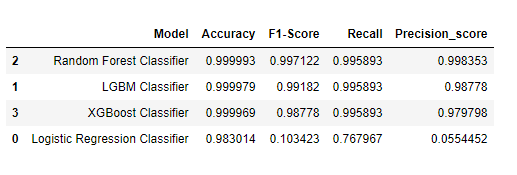
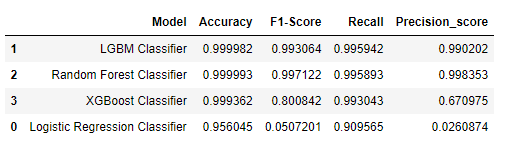
3.1

diff --git a/README.md b/README.md
@@ -136,35 +136,30 @@ These correlations can be useful for the business team to have a quick view of t
 
 ![alt text](img/ml.png "Title")
 
-The Random Forest had the best result. Doing the cross validation, for each model, we obtain:
+The Light GBM had the best result. Doing the cross validation, for each model, we obtain:
 
 ![alt text](img/ml_2.png "Title")
 
-Therefore, the model we will use will be the Random Forest
+Therefore, the model we will use will be the Light GBM
 
 ### 3.6 Error Translation and Interpretation.
 
 #### Overall performance
 
-For every 1000 transactions made, according to Random Forest Cross Validation, the results are:
+The results are:
 
-- 999,997 +/- 0,00169 correct classifications (true positives + true negatives). &emsp; &emsp; -> accuracy
+- 99,9988% correct classifications (true positives + true negatives). &emsp;  -> Accuracy
 
-- 99,9994% +/- 0,000337% of all frauds are detected. &emsp; &emsp; &emsp; &emsp; &emsp; &emsp; &emsp; &emsp; &emsp; &emsp; -> Recall
+- 99,6% of all frauds are detected. &emsp; &emsp; &emsp; &emsp; &emsp; &emsp; &emsp; &emsp; &emsp; &emsp; &emsp; &emsp; &emsp; -> Recall
 
-- 99,9999% of transactions classified as fraud, are really fraud. &emsp; &emsp; &emsp; &emsp; &emsp; &emsp; &emsp; -> Precision
+- 99,5% of transactions classified as fraud, are really fraud. &emsp; &emsp; &emsp; &emsp;-> Precision
 
-#### Performance in an example
+
+It was a very good result for the project. The data for production was removed at the beginning, so there was no leakage of information.
 
 Using a sample of 1908786 transactions:
 
-![alt text](img/7.4.im.png "Title")
-
-1 - Blocker Fraud Company will receive $856,775,411.85 due to transactions truly detected as fraud
-
-2 - Blocker Fraud Company will lose $12,591.51 due to transactions detected as fraud, however the transaction is legitimate.
-
-3 - Blocker Fraud Company will lose $3,253,801.45 due to transactions detected as legitimate, however the transaction is a fraud
+![alt text](img/10.2.png "Title")
 
 
 ## 4 Next Steps
